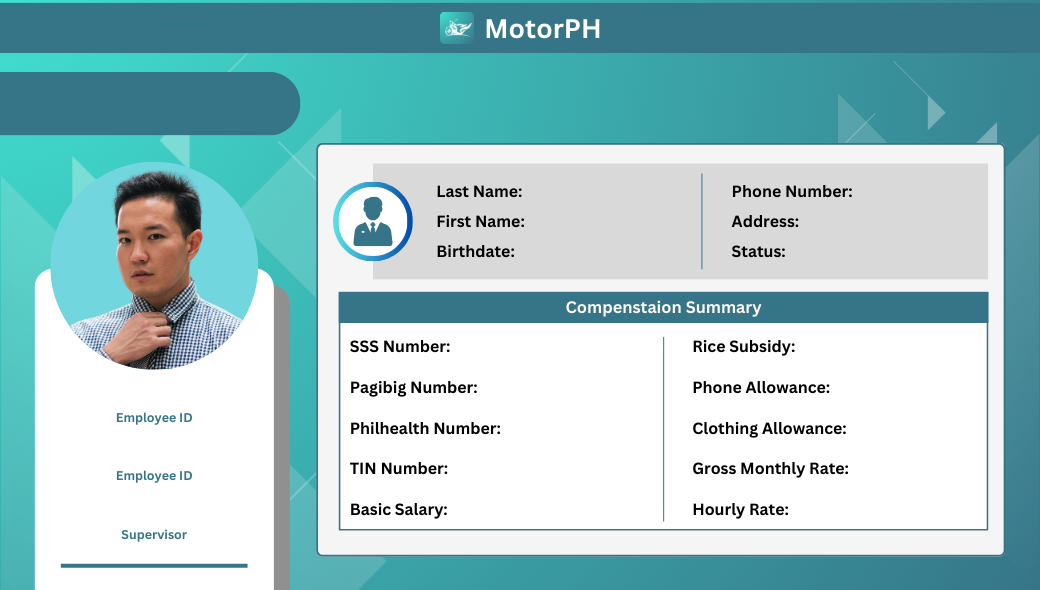
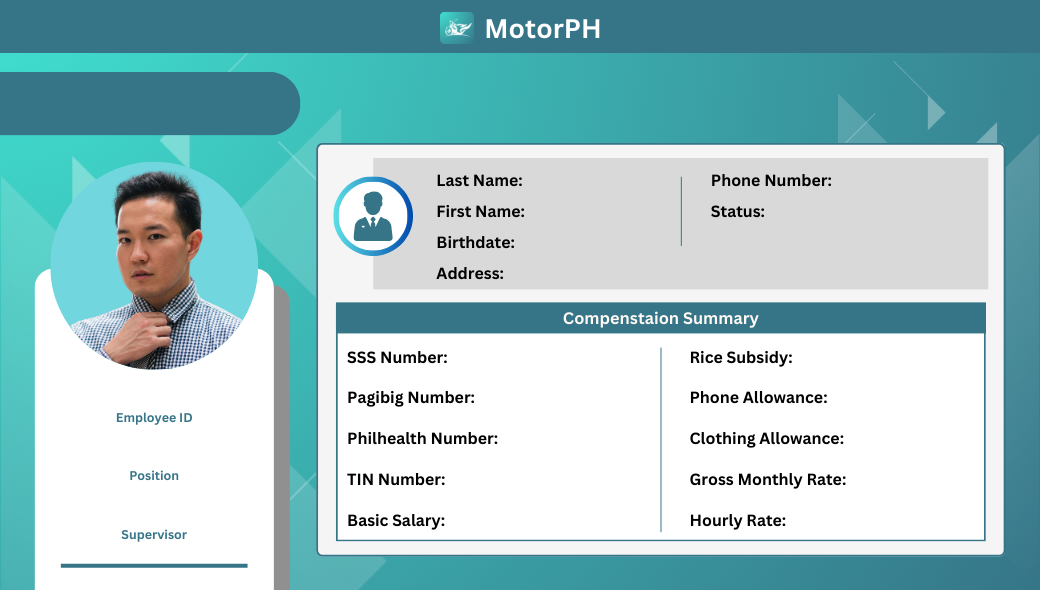
Changed with new layout for Address

Changed region(s): [[0.3077, 0.2441, 0.9538, 0.9458], [0.0, 0.0, 0.8615, 0.0305], [0.0923, 0.7932, 0.1846, 0.8237]]

diff --git a/src/main/java/Jframes/ViewSingleEmployee.java b/src/main/java/Jframes/ViewSingleEmployee.java
@@ -124,27 +124,27 @@ public class ViewSingleEmployee extends javax.swing.JFrame {
         jFirstName.setFont(new java.awt.Font("Arial", 1, 14)); // NOI18N
         jFirstName.setForeground(new java.awt.Color(54, 117, 136));
         jFirstName.setText("Ging");
-        getContentPane().add(jFirstName, new org.netbeans.lib.awtextra.AbsoluteConstraints(560, 210, -1, -1));
+        getContentPane().add(jFirstName, new org.netbeans.lib.awtextra.AbsoluteConstraints(560, 200, -1, -1));
 
         jBirthday.setFont(new java.awt.Font("Arial", 1, 14)); // NOI18N
         jBirthday.setForeground(new java.awt.Color(54, 117, 136));
         jBirthday.setText("Jan-01-1990");
-        getContentPane().add(jBirthday, new org.netbeans.lib.awtextra.AbsoluteConstraints(560, 240, -1, -1));
+        getContentPane().add(jBirthday, new org.netbeans.lib.awtextra.AbsoluteConstraints(560, 230, -1, -1));
 
         jPhoneNumber.setFont(new java.awt.Font("Arial", 1, 14)); // NOI18N
         jPhoneNumber.setForeground(new java.awt.Color(54, 117, 136));
         jPhoneNumber.setText("09123456789");
-        getContentPane().add(jPhoneNumber, new org.netbeans.lib.awtextra.AbsoluteConstraints(880, 180, -1, -1));
+        getContentPane().add(jPhoneNumber, new org.netbeans.lib.awtextra.AbsoluteConstraints(880, 170, -1, -1));
 
         jAddress.setFont(new java.awt.Font("Arial", 1, 14)); // NOI18N
         jAddress.setForeground(new java.awt.Color(54, 117, 136));
         jAddress.setText("123 Luzon, Philippines");
-        getContentPane().add(jAddress, new org.netbeans.lib.awtextra.AbsoluteConstraints(880, 210, 100, -1));
+        getContentPane().add(jAddress, new org.netbeans.lib.awtextra.AbsoluteConstraints(560, 260, 420, -1));
 
         jLastName.setFont(new java.awt.Font("Arial", 1, 14)); // NOI18N
         jLastName.setForeground(new java.awt.Color(54, 117, 136));
         jLastName.setText("Lee");
-        getContentPane().add(jLastName, new org.netbeans.lib.awtextra.AbsoluteConstraints(560, 180, -1, -1));
+        getContentPane().add(jLastName, new org.netbeans.lib.awtextra.AbsoluteConstraints(560, 170, -1, -1));
 
         jPhilhealthNumber.setFont(new java.awt.Font("Arial", 1, 14)); // NOI18N
         jPhilhealthNumber.setForeground(new java.awt.Color(54, 117, 136));
@@ -207,7 +207,7 @@ public class ViewSingleEmployee extends javax.swing.JFrame {
         jStatus.setFont(new java.awt.Font("Arial", 1, 14)); // NOI18N
         jStatus.setForeground(new java.awt.Color(54, 117, 136));
         jStatus.setText("Employed");
-        getContentPane().add(jStatus, new org.netbeans.lib.awtextra.AbsoluteConstraints(880, 240, -1, 20));
+        getContentPane().add(jStatus, new org.netbeans.lib.awtextra.AbsoluteConstraints(880, 200, -1, 20));
 
         jImmediateSupervisor.setFont(new java.awt.Font("Arial", 1, 16)); // NOI18N
         jImmediateSupervisor.setHorizontalAlignment(javax.swing.SwingConstants.CENTER);
